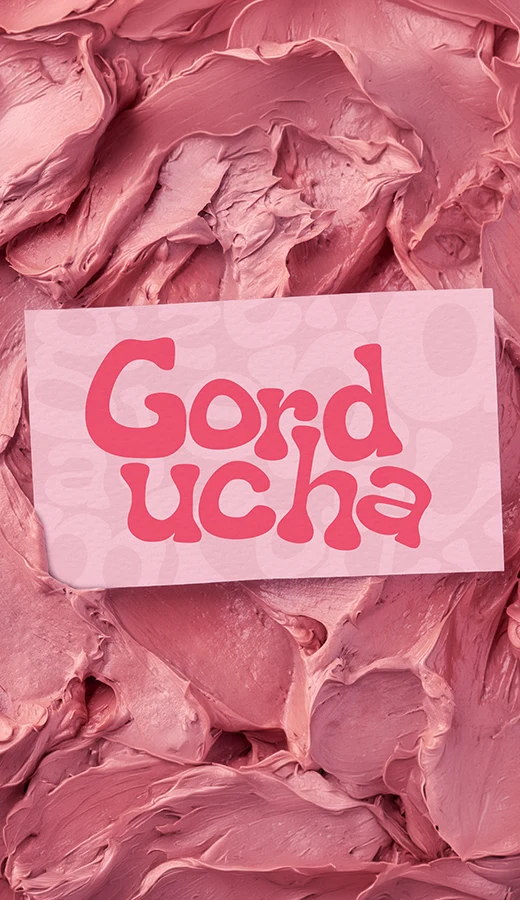
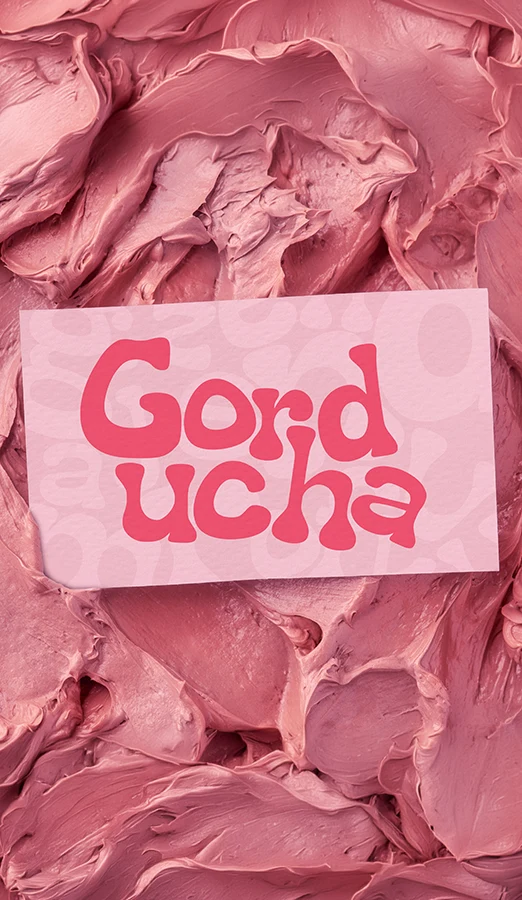
Gorducha celular: capa enquadrada pela largura, com folga dos lados do cartão como na referência

diff --git a/work-gorducha.html b/work-gorducha.html
@@ -155,7 +155,9 @@
   /* ══════════ VERSÃO CELULAR — a base comum das páginas de projeto está em assets/projeto-celular.css; aqui só o que é da Gorducha ══════════ */
   html.celular { --fundo-pagina: var(--roxo); --foto-y: 50%; }   /* foto do celular: o cartão deitado sobre o sorvete, recortado em pé (hero-celular.webp, de "gorducha cartao expand") */
   /* o cartão no meio da tela, quase de ponta a ponta; o pé da foto se dissolve no roxo (degradê comum, projeto-celular.css) */
-  html.celular .hero img { left: 0; width: 100%; top: 0; height: 100%; object-position: 50% 50%; }
+  /* a largura manda (não a altura): o cartão fica com uma folguinha de cada lado, como na referência dela */
+  html.celular .hero img { left: 0; width: 100%; top: 0; height: auto; aspect-ratio: 522 / 900; object-fit: cover; }
+  html.celular .hero { overflow: hidden; }   /* em telas baixas a foto passa do pé do topo: não aparece embaixo do título */
   html.celular .page > .video-bloco { aspect-ratio: 16 / 9; }   /* o vídeo inteiro, sem as faixas vermelhas dos lados */
   /* caixa de escrever: quadrada, com a área do texto e a barra de cores proporcionais */
   html.celular .page > .escrever { aspect-ratio: 1 / 1; }
